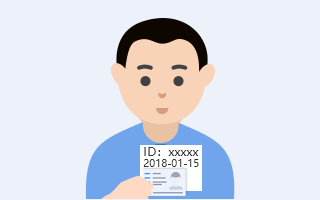
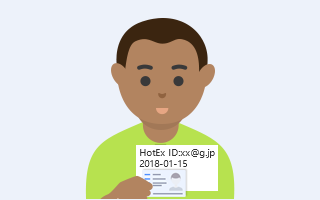
change pictrue and fix ie bug

Changed region(s): [[0.25, 0.09, 0.75, 1.0]]

diff --git a/src/components/Pages/Validate/Sms/Sms.scss b/src/components/Pages/Validate/Sms/Sms.scss
@@ -26,7 +26,6 @@
   }
   .btc-sms-code{
     display: flex;
-    height: 60px;
     & > div{
       flex: 1
     }
@@ -73,6 +72,7 @@
     top: 32px;
     width: 100%;
     border-top: none;
+    left: 0;
     cursor: pointer;
     .btc-code-number{
       float: left;
